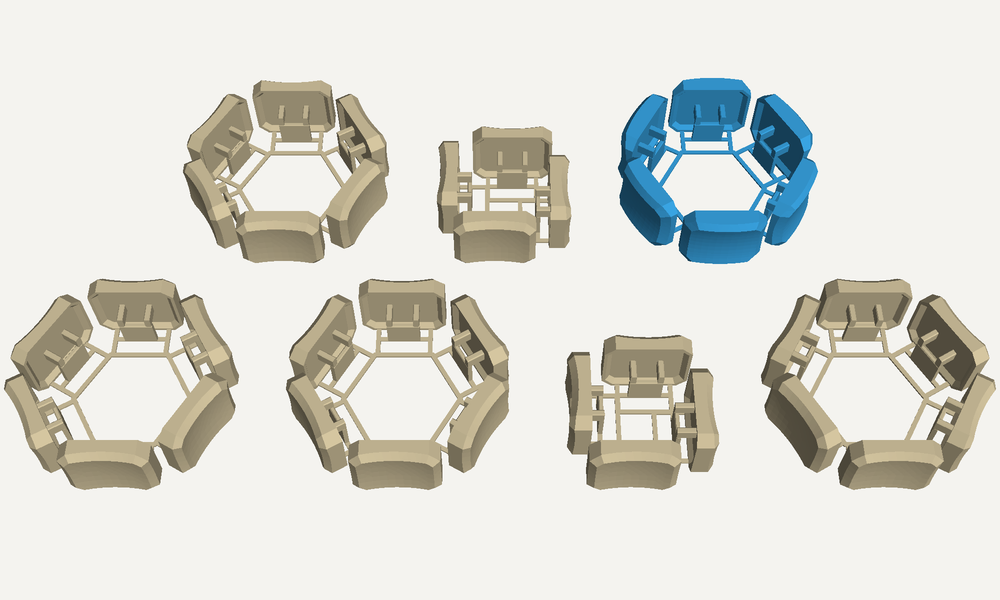
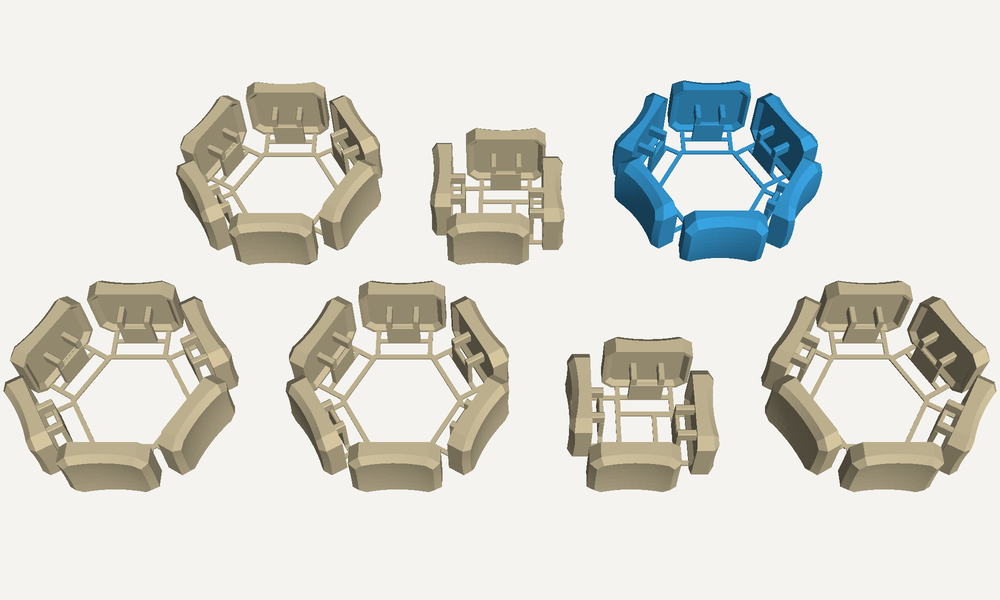
Turn the thumb saddle by 90° and enlarge the encoder knob
The thumb trough now runs along the column, where the thumb points,
and the saddle rolls off towards the front and back edges. The front
edge, which stands on the bed, gets a conical bevel around the saddle
axis, since a plain chamfer there would overhang by more than 45°.

The knob grows from 19 to 29 mm across the corners, so it is easier to
grip; the eye on its top scales with it.

diff --git a/case/fluidcad/keycap.part.js b/case/fluidcad/keycap.part.js
@@ -9,14 +9,16 @@ import { closed } from './outline.js';
 // of the pocket on the underside; the rim around the pocket reaches down to Z = -RIM.
 //
 // - Finger: a dish, concave in both directions, optionally tilted along Y.
-// - Thumb: a saddle. Concave along Y, so the thumb lies in a shallow trough that runs along
-//   X, the direction it sweeps over the thumb row; convex along X, so the key edges roll
+// - Thumb: a saddle. Concave across X, so the thumb lies in a shallow trough that runs along
+//   Y, the direction the thumb points; convex along Y, so the front and back edges roll
 //   away under the thumb instead of digging into it.
 //
-// Both top surfaces come from one construction: an arc in the XZ plane (concave or convex
-// across X) revolved about an axis parallel to X that lies above the cap. The revolved body
-// is cut from the cap, and its lower face, a torus, becomes the top surface: its curvature
-// along Y is set by the height of that axis.
+// Both top surfaces come from one construction: an arc (concave or convex) revolved about
+// an axis that lies above the cap. The revolved body is cut from the cap, and its lower
+// face, a torus, becomes the top surface: its curvature along the axis is set by the arc,
+// the curvature around it by the height of the axis. The dish runs its arc across X and
+// revolves it about an axis parallel to X; the saddle is the same construction turned by
+// 90°, with the convex arc along Y and the axis parallel to Y.
 //
 // The cap prints standing on its front edge (-Y). The stem legs then overhang sideways; an
 // integrated support carries them: a thin wall under the leg tips that touches them only on
@@ -128,18 +130,19 @@ export const keycap = part('Molekula · Keycap', () => {
     min: 1.5, max: 8, step: 0.1, group: 'Thumb', description: 'Higher than the finger keys, so the edges that roll away stay thick enough.',
   });
   const trough = param('Saddle trough (mm)', 0.8, 'number', {
-    min: 0, max: 2, step: 0.05, group: 'Thumb', description: 'Concave along Y: rise 6 mm from the centre.',
+    min: 0, max: 2, step: 0.05, group: 'Thumb', description: 'Concave across X: rise 6 mm from the centre.',
   });
   const roll = param('Saddle roll-off (mm)', 0.5, 'number', {
-    min: 0, max: 1.5, step: 0.05, group: 'Thumb', description: 'Convex along X: drop 6 mm from the centre.',
+    min: 0, max: 1.5, step: 0.05, group: 'Thumb', description: 'Convex along Y: drop 6 mm from the centre.',
   });
   const support = param('Integrated print support', true, 'checkbox', { group: 'Print' });
   const capColor = param('Colour', '#d8c9a3', 'color', { group: 'Print' });
 
   const thumb = profile === 'thumb';
   const h = thumb ? thumbHeight : height;
-  // Signed rise across X (positive = concave) and rise along Y (always concave; a flat
-  // direction gets a very large radius instead).
+  // Signed rise of the arc (positive = concave) and rise around the axis (always concave; a
+  // flat direction gets a very large radius instead). The dish runs its arc across X, the
+  // saddle along Y.
   const across = thumb ? -roll : dishAcross;
   const along = thumb ? trough : dishAlong;
   const turn = ((thumb ? 0 : tilt) * Math.PI) / 180;
@@ -147,8 +150,9 @@ export const keycap = part('Molekula · Keycap', () => {
   // Highest point of the top surface, to size the blank.
   const reachX = width / 2 + 0.5;
   const reachY = depth / 2 + 0.5;
+  const [reachArc, reachAxis] = thumb ? [reachY, reachX] : [reachX, reachY];
   const riseAt = (rise, d) => (rise > 0 ? radiusFor(rise) - Math.sqrt(Math.max(0, radiusFor(rise) ** 2 - d * d)) : 0);
-  const top = h + riseAt(Math.max(0, across), reachX) + riseAt(along, reachY) + Math.abs(Math.tan(turn)) * reachY + 1;
+  const top = h + riseAt(Math.max(0, across), reachArc) + riseAt(along, reachAxis) + Math.abs(Math.tan(turn)) * reachY + 1;
 
   // Blank: the footprint from the rim up to above the top surface.
   sketch(plane('xy', { offset: -RIM }), () => {
@@ -157,16 +161,18 @@ export const keycap = part('Molekula · Keycap', () => {
   }).name('Footprint');
   const cap = extrude(top + RIM).new().name('Keycap');
 
-  // Top surface. The cutting body's profile: the arc across X, closed upwards to the axis
-  // about which it is revolved. Tilting a surface of revolution about an axis parallel to
-  // its own only moves it along the circle: the axis moves to -R·sin(tilt) in Y and the low
-  // point of the dish slides forward, so the surface over the cap rises towards +Y.
+  // Top surface. The cutting body's profile: the arc, closed upwards to the axis about which
+  // it is revolved. Tilting a surface of revolution about an axis parallel to its own only
+  // moves it along the circle: the axis moves to -R·sin(tilt) in Y and the low point of the
+  // dish slides forward, so the surface over the cap rises towards +Y. The thumb has no tilt.
   const radius = along > 0.01 ? radiusFor(along) : 2000;
   const axisY = -radius * Math.sin(turn);
   const axisZ = h + radius * Math.cos(turn);
   const low = axisZ - radius; // lowest point of the profile, in the plane of the axis
-  // The XZ plane faces -Y: its offset is the negative y.
-  const cutter = sketch(plane('xz', { offset: -axisY }), () => {
+  // Dish: the arc in the XZ plane, which faces -Y, so its offset is the negative y. Saddle:
+  // the arc in the YZ plane through the centre, sketched in (y, z).
+  const profilePlane = thumb ? plane('yz', { offset: 0 }) : plane('xz', { offset: -axisY });
+  const cutter = sketch(profilePlane, () => {
     let z = low;
     if (Math.abs(across) < 1e-3) {
       line([-REACH, low], [REACH, low]);
@@ -182,9 +188,25 @@ export const keycap = part('Molekula · Keycap', () => {
     line([REACH, axisZ], [-REACH, axisZ]);
     line([-REACH, axisZ], [-REACH, z]);
   }).name('Top surface · profile');
-  revolve(axis('x', { offsetY: axisY, offsetZ: axisZ }), cutter).remove().scope(cap).name('Top surface');
+  const revolveAxis = thumb ? axis('y', { offsetZ: axisZ }) : axis('x', { offsetY: axisY, offsetZ: axisZ });
+  revolve(revolveAxis, cutter).remove().scope(cap).name('Top surface');
   if (printable) {
     chamfer(edgeChamfer, select(edge().above('xy', 0.2))).name('Top edge');
+    if (thumb && across < 0) {
+      // The saddle rolls off towards the front edge, which stands on the bed, so a 45°
+      // chamfer between the front wall and the top surface overhangs by more than 45°.
+      // Bevel that edge with a cone around the axis of the saddle instead: its sections
+      // across X are circles concentric with the top surface, so the bevel is even across
+      // the trough, and its flank stands at exactly 45° to the bed everywhere. It starts a
+      // little below the chamfer on the wall and removes it.
+      const bed = -depth / 2;
+      const front = low - riseAt(-across, depth / 2); // top surface at the front edge, x = 0
+      const rim = axisZ - front + edgeChamfer + 0.05; // cone radius at the front wall
+      const bevel = sketch(plane('yz', { offset: 0 }), () => {
+        closed([[bed - 1, axisZ - rim - 1], [bed + rim, axisZ], [bed - 1, axisZ]]);
+      }).name('Front bevel · profile');
+      revolve(axis('y', { offsetZ: axisZ }), bevel).remove().scope(cap).name('Front bevel');
+    }
   } else {
     fillet(edgeRadius, select(edge().above('xy', 0.2))).name('Top edge');
   }

diff --git a/case/fluidcad/encoder-knob.part.js b/case/fluidcad/encoder-knob.part.js
@@ -22,9 +22,10 @@ const TIP_ROOM = 0.4;
 // Crush ribs on the round side of the bore (angles from the flat, which faces +X), and the
 // lead-in at the entrance where they are left out.
 const RIBS = { angles: [120, 180, 240], width: 0.8, leadIn: 1 };
-// Eye on the top: inlay radius (corner, pointy top), recessed outline around it, open
-// centre, depth (three layers of 0.2 mm). Scaled down from the eyes on the cover.
-const EYE = { radius: 4.2, groove: 0.6, dot: 2, depth: 0.6 };
+// Eye on the top, for a knob 19 mm across the corners: inlay radius (corner, pointy top),
+// recessed outline around it, open centre, depth (three layers of 0.2 mm). Scaled down from
+// the eyes on the cover; radius and centre grow with the knob.
+const EYE = { size: 19, radius: 4.2, groove: 0.6, dot: 2, depth: 0.6 };
 
 /** Regular hexagon (pointy top) with rounded corners, drawn into the current sketch. */
 function roundedHexagon(cx, cy, r, rc) {
@@ -61,7 +62,7 @@ const hexagon = (at, r) => [...Array(6)].map((_, i) => {
 export const encoderKnob = part('Molekula · Encoder knob', () => {
   const p = layoutParams();
   const s = shellParams();
-  const size = param('Knob size across corners (mm)', 19, 'number', { min: 12, max: 26, step: 0.5 });
+  const size = param('Knob size across corners (mm)', 29, 'number', { min: 12, max: 36, step: 0.5 });
   const cornerRadius = param('Knob corner radius (mm)', 1.5, 'number', { min: 0.3, max: 4, step: 0.1 });
   const gap = param('Gap above the cover (mm)', 1, 'number', { min: 0.3, max: 3, step: 0.1 });
   const clearance = param('Bore clearance (mm)', 0.15, 'number', {
@@ -125,19 +126,22 @@ export const encoderKnob = part('Molekula · Encoder knob', () => {
 
   // Eye on the top: a pocket as deep as the inlay, refilled by the eye, which leaves the
   // recessed outline around it. The open centre stays in the knob colour.
-  const pocketRadius = EYE.radius + EYE.groove / Math.cos(Math.PI / 6);
+  const scale = size / EYE.size;
+  const eyeRadius = EYE.radius * scale;
+  const dot = EYE.dot * scale;
+  const pocketRadius = eyeRadius + EYE.groove / Math.cos(Math.PI / 6);
   rectBodies('middle', p, [{ corners: hexagon(at, pocketRadius) }], z1 - EYE.depth, z1 + 1, 'Knob · eye pocket', { remove: [knob] });
   if (inlay) {
     const centre = sketchPlane('middle', p, z1 - EYE.depth - 0.05);
-    sketch(centre.plane, () => circle([at[0] + centre.dx, at[1] + centre.dy], EYE.dot)).name('Knob · eye centre · sketch');
+    sketch(centre.plane, () => circle([at[0] + centre.dx, at[1] + centre.dy], dot)).name('Knob · eye centre · sketch');
     extrude(EYE.depth + 0.05).add().scope(knob).name('Knob · eye centre');
-    const [eye] = rectBodies('middle', p, [{ corners: hexagon(at, EYE.radius) }], z1 - EYE.depth, z1, 'Knob · eye');
+    const [eye] = rectBodies('middle', p, [{ corners: hexagon(at, eyeRadius) }], z1 - EYE.depth, z1, 'Knob · eye');
     const hole = sketchPlane('middle', p, z1 + 1);
-    sketch(hole.plane, () => circle([at[0] + hole.dx, at[1] + hole.dy], EYE.dot)).name('Knob · eye hole · sketch');
+    sketch(hole.plane, () => circle([at[0] + hole.dx, at[1] + hole.dy], dot)).name('Knob · eye hole · sketch');
     extrude(EYE.depth + 2).remove().scope(eye).name('Knob · eye hole');
     color(eyeColor, eye);
   } else {
-    rectBodies('middle', p, [{ corners: hexagon(at, EYE.radius) }], z1 - EYE.depth - 0.05, z1, 'Knob · eye (plain)', { add: [knob] });
+    rectBodies('middle', p, [{ corners: hexagon(at, eyeRadius) }], z1 - EYE.depth - 0.05, z1, 'Knob · eye (plain)', { add: [knob] });
   }
 
   color(knobColor, knob);

diff --git a/keycaps/README.md b/keycaps/README.md
@@ -9,12 +9,12 @@ Choc v1 keycaps for the minY grid of 19 × 16 mm, and a knob for the encoder. Bo
 All caps print standing on their front edge. An integrated support carries the stem legs, so the slicer needs no supports. Everything that was measured on the original caps is kept: footprint 18.3 × 15.3 mm, the solid body with a 1 mm pocket underneath, the Choc v1 stem and the support with its frame. What changed is the top surface:
 
 - **Finger (dish):** flat, without the tilt of the old slope caps, and with the shallow dish of the old default cap (0.55 mm across, 0.35 mm along, measured 6 mm from the centre). The parameter **Tilt along the column (°)** brings a tilt back if needed (the old slope caps had about 14°).
-- **Thumb (saddle):** concave along the column, so the thumb lies in a shallow trough that runs along the thumb row (0.8 mm, **Saddle trough**). Convex across, so the edges roll away under the thumb instead of digging into it (0.5 mm, **Saddle roll-off**). The thumb caps are 0.5 mm higher at the centre, so the rolled-off edges stay thick enough.
+- **Thumb (saddle):** concave across the key, so the thumb lies in a shallow trough that runs along the column, the direction the thumb points (0.8 mm, **Saddle trough**). Convex along the column, so the front and back edges roll away under the thumb instead of digging into it (0.5 mm, **Saddle roll-off**). The thumb caps are 0.5 mm higher at the centre, so the rolled-off edges stay thick enough.
 - **Homing mark:** none, three dots as on the old home cap, or a raised hexagon outline in the style of the eyes on the middle cover.
 
-Both surfaces are built the same way. An arc across the key is revolved about an axis parallel to X that lies above the cap, and the revolved body is cut from the blank. The arc decides the shape across the key (concave for the dish, convex for the saddle), and the height of the axis decides the shape along it.
+Both surfaces are built the same way. An arc is revolved about an axis that lies above the cap, and the revolved body is cut from the blank. The arc decides the shape in one direction, the height of the axis the shape in the other. The dish runs a concave arc across the key and revolves it about an axis along the row. The saddle is the same construction turned by 90°: a convex arc along the column, revolved about an axis along the column.
 
-**Print-friendly edges (45°)**, on by default: apart from the stem legs, no face of the standing cap overhangs by more than 45°. Round edges start tangent to the bed at the front edge and overhang almost horizontally there. So the four corners of the footprint and the whole top edge get 45° chamfers instead (**Corner chamfer** 2.2 mm, **Top edge chamfer** 1.5 mm). The homing marks get 45° flanks: the dots become small cones, and the hexagon becomes a ridge with sloped sides. Checked on the exported meshes, the only faces that point down more steeply are the undersides of the stem legs, which the integrated support carries.
+**Print-friendly edges (45°)**, on by default: apart from the stem legs, no face of the standing cap overhangs by more than 45°. Round edges start tangent to the bed at the front edge and overhang almost horizontally there. So the four corners of the footprint and the whole top edge get 45° chamfers instead (**Corner chamfer** 2.2 mm, **Top edge chamfer** 1.5 mm). The homing marks get 45° flanks: the dots become small cones, and the hexagon becomes a ridge with sloped sides. On the thumb caps the saddle rolls off towards the front edge, which stands on the bed, so a plain chamfer there would lean further than 45°. That edge gets a conical bevel around the axis of the saddle instead, 45° to the bed along its whole length. Checked on the exported meshes, the only faces that point down more steeply are the undersides of the stem legs, which the integrated support carries.
 
 The chamfers stay sharp. Their edges are 135° and printing softens them a little. Rounding them failed in OpenCascade: both a fillet over the chamfer edges and a chamfer along rounded footprint corners left degenerate faces, which meshed into tens of thousands of slivers with open edges, or left the top surface not fully cut. With the option off, the cap gets the round edges of the original caps (corner radius 3 mm, top edge 2 mm).
 
@@ -30,7 +30,7 @@ Colours: the case is beige, so all finger caps are beige. The index finger home 
 
 A hexagonal knob like the eyes on the middle cover. Its top carries the same eye: a 0.6 mm colour inlay with an open centre and a recessed outline (blue by default; **Eye as colour inlay** off leaves only the outline). The knob prints upside down on its top, so the eye sits in the first three layers.
 
-- 19 mm across the corners, 8.4 mm high, 1 mm above the middle cover.
+- 29 mm across the corners (25 mm across the flats), 8.4 mm high, 1 mm above the middle cover. The eye grows with the knob. The two lower sides reach about 1 mm past the front edge of the cover, and the nearest key is 14 mm away.
 - D bore for the measured shaft: Ø 6 mm, 4.5 mm from the flat to the opposite side, tip 7.44 mm above the cover, flat 7 mm long. Clearance 0.15 mm per side, a 0.5 mm lead-in at the entrance and 0.4 mm of room above the tip.
 - Three crush ribs on the round side of the bore reach 0.1 mm into the shaft and press it against the flat, so the knob holds without a set screw. If it sits too tight or too loose, change **Crush rib interference (mm)** or **Bore clearance (mm)**.
 
